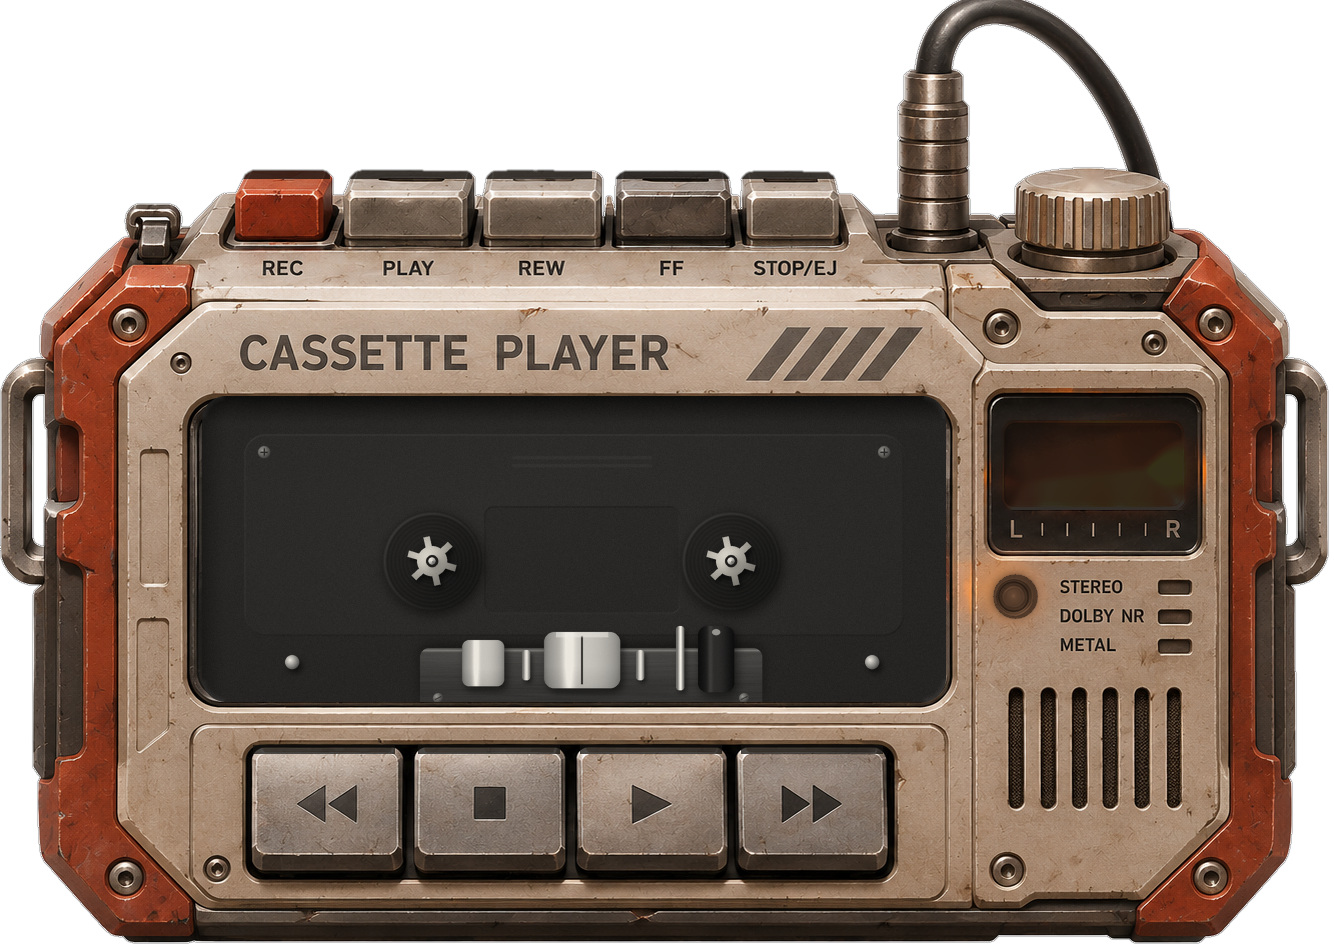
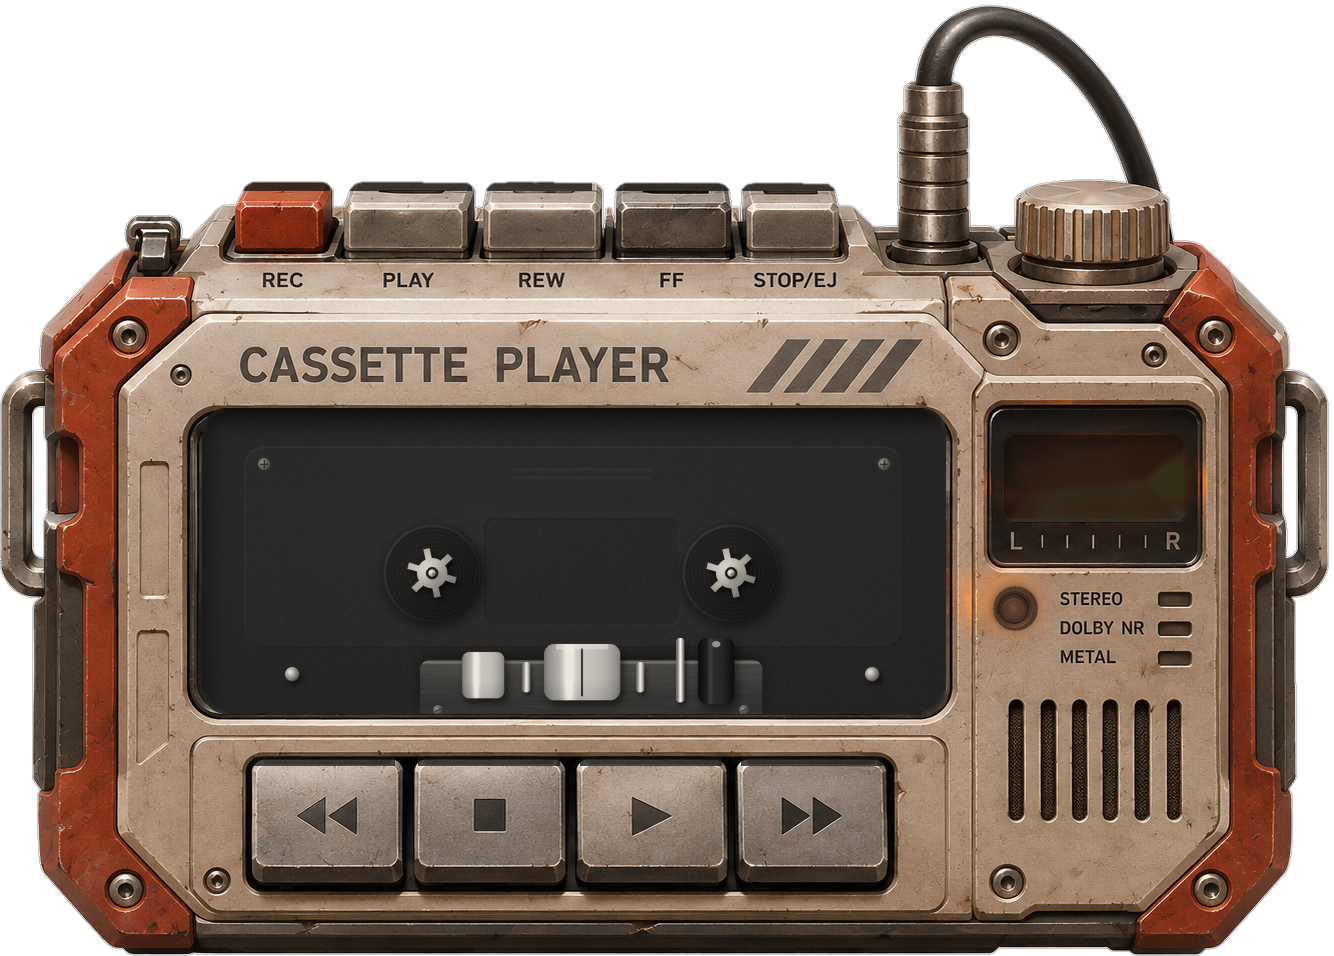
Magnetic 88: the desk terminal has the keys; the cassette player's cable whole
- Going to a workspace where the desk terminal is alone (or it coming back
  there) gives it the keyboard at once, no need to point at it first.
- The cassette player is cut from a little higher, so the top of its
  cable's arc is no longer clipped.

Claude-Session: https://claude.ai/code/session_015VvhJ21Y4bjWDEYJNoFXMP

diff --git a/themes/retro-futurism/home/.config/quickshell/widgets/cassette/Main.qml b/themes/retro-futurism/home/.config/quickshell/widgets/cassette/Main.qml
@@ -28,14 +28,14 @@ import qs.services
 // moves from one spool to the other as the song goes, the meter shows its
 // levels (services/Spectrum.qml) and the lamp is lit while it plays.
 // Everything is placed in the mock-up's pixels (body.png starts at its
-// 128, 14; tools/make_tapedeck.py) and the whole player scaled once.
+// 128, 2; tools/make_tapedeck.py) and the whole player scaled once.
 Widget {
     id: self
     widgetId: "cassette"
 
     readonly property real k: 0.82
     preferredWidth: 1334 * k
-    preferredHeight: 944 * k
+    preferredHeight: 956 * k
 
     // what the window holds: the cassette in the player, kept while it
     // slides out
@@ -210,11 +210,11 @@ Widget {
     // the player, in the mock-up's pixels
     Item {
         id: unit
-        width: 1334; height: 944
+        width: 1334; height: 956
         scale: self.k
         transformOrigin: Item.TopLeft
         function ax(x) { return x - 128; }
-        function ay(y) { return y - 14; }
+        function ay(y) { return y - 2; }
 
         Image {
             anchors.fill: parent

diff --git a/themes/retro-futurism/tools/make_tapedeck.py b/themes/retro-futurism/tools/make_tapedeck.py
@@ -27,7 +27,7 @@ os.makedirs(out, exist_ok=True)
 src0 = np.asarray(Image.open(src).convert('RGB')).astype(np.float32)
 img = src0.copy()
 H, W, _ = img.shape
-CROP = (128, 14, 1462, 958)                   # the player, and a margin
+CROP = (128, 2, 1462, 958)                   # the player, and a margin
 ORIGIN = CROP[:2]
 
 # ---- the places (mock-up pixels)
